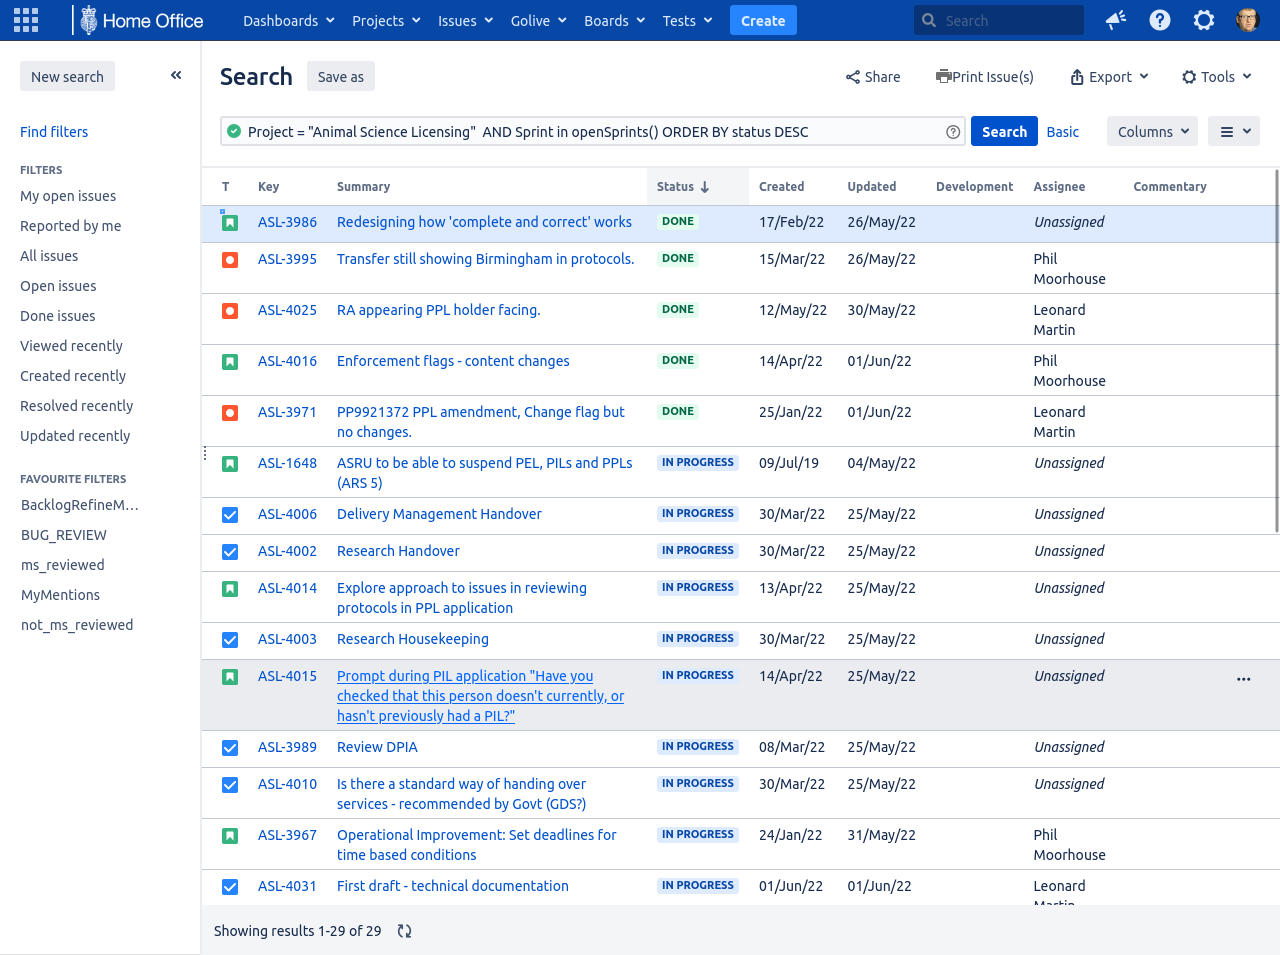
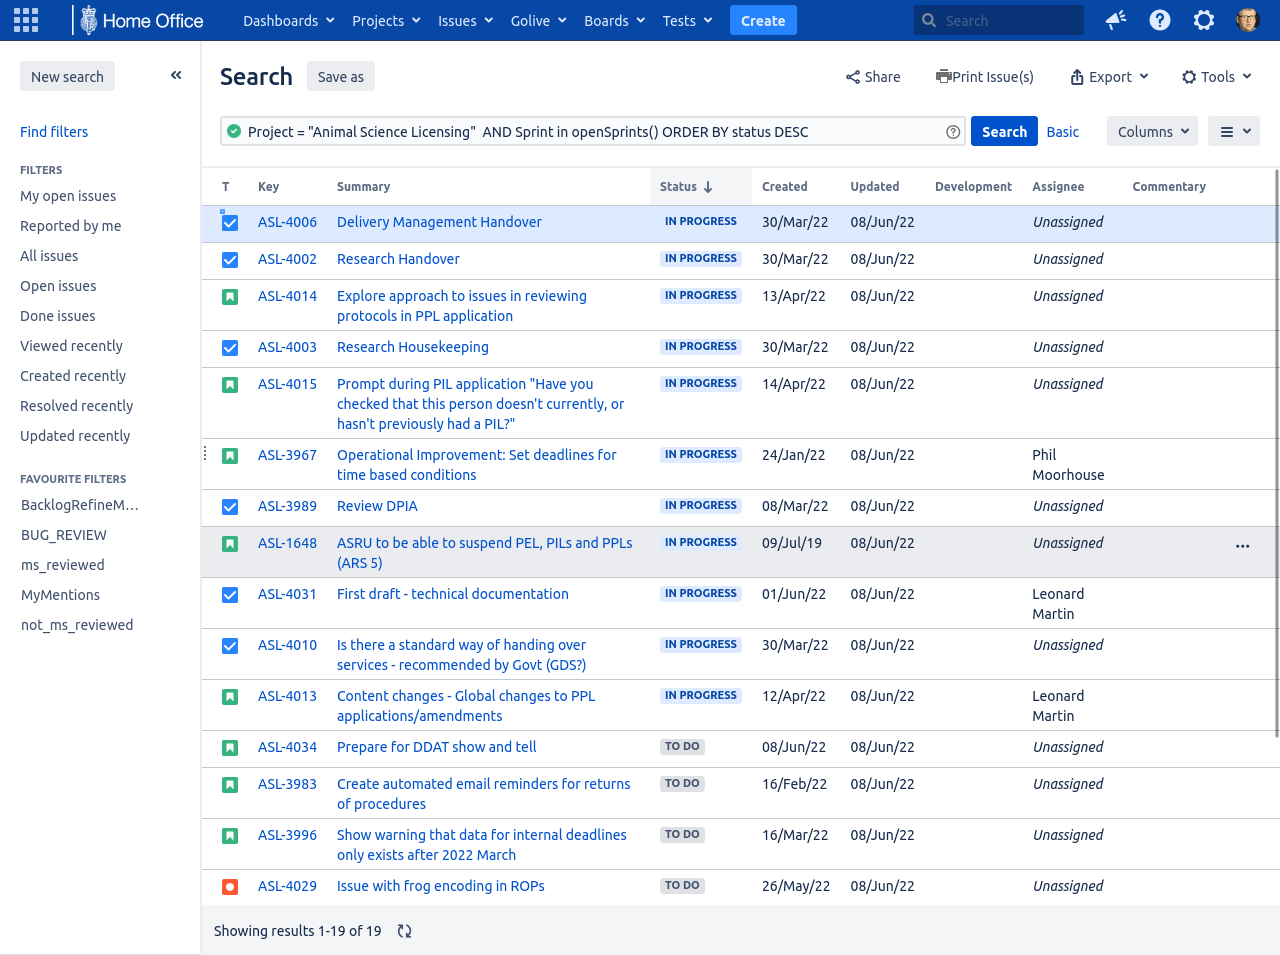
Add files required for weekly report. First go at this week's report

diff --git a/report08062022.md b/report08062022.md
@@ -1,0 +1,43 @@
+# Summary as of Wednesday 08 June 2022 
+
+# Sprint 111 (Rat) 
+
+[!Ademortuus, CC BY 4.0 <https://creativecommons.org/licenses/by/4.0>, via Wikimedia Commons](graphs/rat.jpg)
+
+## Just Done
+* Improvements to enforcement flag content - working software
+* Database design for condition reminders
+
+## About to Do/Doing
+* Warnings around users applying for multiple PILs - design
+* preparation for a DDaT show and tell - design
+* Adding reminders to conditions
+
+
+## Bugs Fixed this week
+The following bugs were fixed this week.
+[Bug Fixes week to Wednesday 08 June 2022](graphs/bugs08062022.png)
+
+We planned the following issues in this sprint 
+[Sprint 111](graphs/sprint08062022.png)
+
+## Support tickets and known issues
+[Link to Support Board](https://collaboration.homeoffice.gov.uk/jira/secure/RapidBoard.jspa?rapidView=1717&selectedIssue=ASSB-253)
+
+[Support board - cached](graphs/supportBoard08062022.png)
+
+## Click here for metrics / progress against plan
+[Sprint 111](graphs/progress08062022.png)
+
+[Post Release Roadmap](graphs/roadmap08062022.png)
+
+## We set the following areas of focus last sprint
+1. Establish plan and progress time-based conditions
+
+## We set the following areas of focus for this sprint
+1.Time conditions: release candidate - working software 
+2.Prepare for enablers show and tell - design
+
+## Google Analytics for this report
+[Google Analytics](graphs/GA08062022.png)
+
